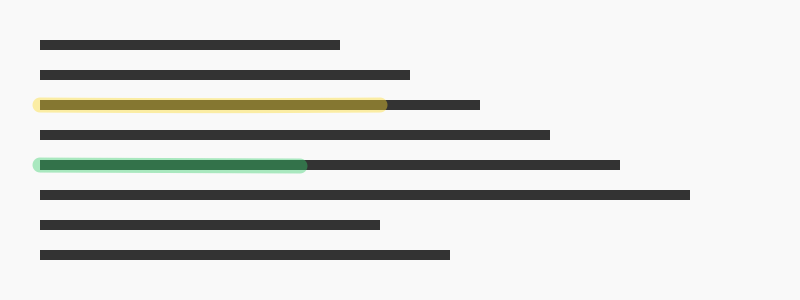
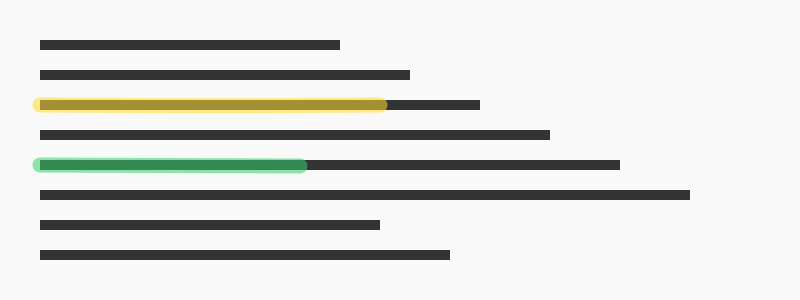
Smart select: tests, stills 11-14 + re-rendered 04/04b, SPEC Run 27

Changed region(s): [[0.0312, 0.3, 0.5, 0.39], [0.0312, 0.51, 0.375, 0.6]]

diff --git a/Tests/TrueTests/CaptureTests.swift b/Tests/TrueTests/CaptureTests.swift
@@ -289,3 +289,127 @@ private func px(_ b: [UInt8], _ w: Int, _ x: Int, _ y: Int) -> [UInt8] { Array(b
         #expect(p[1] > 200 && p[2] > 200 && p[3] < p[1] - 30)
     }
 }
+
+
+/// A canvas-like image: a flat dark page with a few drawn panels (no AX tree would describe these).
+func syntheticCanvasImage(_ w: Int = 800, _ h: Int = 500) -> (image: CGImage, boxes: [CGRect]) {
+    let ctx = CGContext(data: nil, width: w, height: h, bitsPerComponent: 8, bytesPerRow: 0, space: CGColorSpace(name: CGColorSpace.sRGB)!,
+                        bitmapInfo: CGImageAlphaInfo.premultipliedFirst.rawValue)!
+    ctx.translateBy(x: 0, y: CGFloat(h)); ctx.scaleBy(x: 1, y: -1)   // top-left coordinates
+    ctx.setFillColor(CGColor(gray: 0.1, alpha: 1)); ctx.fill(CGRect(x: 0, y: 0, width: w, height: h))
+    let boxes = [CGRect(x: 60, y: 60, width: 300, height: 180), CGRect(x: 420, y: 80, width: 280, height: 120), CGRect(x: 120, y: 290, width: 520, height: 150)]
+    for (i, b) in boxes.enumerated() {
+        ctx.setFillColor(CGColor(gray: 0.28 + CGFloat(i) * 0.08, alpha: 1)); ctx.fill(b)
+        ctx.setStrokeColor(CGColor(gray: 0.85, alpha: 1)); ctx.setLineWidth(3); ctx.stroke(b)
+    }
+    return (ctx.makeImage()!, boxes)
+}
+
+private func el(_ x: CGFloat, _ y: CGFloat, _ w: CGFloat, _ h: CGFloat, _ k: PickKind = .section) -> PickElement {
+    PickElement(frame: CGRect(x: x, y: y, width: w, height: h), kind: k)
+}
+
+@Suite struct SmartPickTests {
+    let win = CGRect(x: 0, y: 0, width: 800, height: 600)
+
+    @Test func cleanDropsTinyAndClampsAndEndsWithWindow() {
+        let out = SmartPickLogic.clean([el(10, 10, 1, 40), el(20, 20, 0, 0), el(700, 500, 400, 300, .image)], window: win)
+        #expect(out.count == 2)
+        #expect(out[0].frame == CGRect(x: 700, y: 500, width: 100, height: 100))
+        #expect(out[0].kind == .image)
+        #expect(out.last?.kind == .window && out.last?.frame == win)
+    }
+    @Test func cleanMergesNearDuplicatesKeepingSpecificName() {
+        let out = SmartPickLogic.clean([el(100, 100, 200, 100), el(101, 99, 199, 101, .button), el(50, 50, 400, 300)], window: win)
+        #expect(out.count == 3)
+        #expect(out[0].kind == .button)
+    }
+    @Test func cleanMergesOuterIntoWindow() {
+        let out = SmartPickLogic.clean([el(100, 100, 200, 100), el(1, 1, 798, 599)], window: win)
+        #expect(out.count == 2 && out[1].kind == .window)
+    }
+    @Test func coordinateFlipAcrossScreens() {
+        let r = CGRect(x: 2000, y: 100, width: 300, height: 200)
+        #expect(SmartPickLogic.toOverlay(r, displayOrigin: CGPoint(x: 1440, y: 0)) == CGRect(x: 560, y: 100, width: 300, height: 200))
+        // a screen left of / above the primary has a negative origin
+        #expect(SmartPickLogic.toOverlay(CGRect(x: -1500, y: -900, width: 100, height: 50), displayOrigin: CGPoint(x: -1920, y: -1080))
+                == CGRect(x: 420, y: 180, width: 100, height: 50))
+        let p = CGPoint(x: 420, y: 180), o = CGPoint(x: -1920, y: -1080)
+        #expect(SmartPickLogic.toOverlay(CGRect(origin: SmartPickLogic.toGlobal(p, displayOrigin: o), size: .zero), displayOrigin: o).origin == p)
+    }
+    @Test func axChainWinsOverImageBoxes() {
+        let ax = [el(100, 100, 50, 20, .button), el(0, 0, 800, 600, .window)]
+        let out = SmartPickLogic.chain(ax: ax, window: win, boxes: [CGRect(x: 90, y: 90, width: 200, height: 200)], at: CGPoint(x: 110, y: 110))
+        #expect(out == ax)
+    }
+    @Test func imageFallbackWhenAXOnlyHasWindow() {
+        let boxes = [CGRect(x: 50, y: 50, width: 300, height: 300), CGRect(x: 100, y: 100, width: 100, height: 100)]
+        let out = SmartPickLogic.chain(ax: [el(0, 0, 800, 600, .window)], window: win, boxes: boxes, at: CGPoint(x: 120, y: 120))
+        #expect(out.map(\.kind) == [.area, .area, .window])
+        #expect(out[0].frame == boxes[1])
+        let none = SmartPickLogic.chain(ax: [], window: win, boxes: [], at: CGPoint(x: 5, y: 5))
+        #expect(none.map(\.kind) == [.window])
+    }
+    @Test func pickerGrowShrinkClampAndWindowJump() {
+        var p = SmartPicker([el(10, 10, 20, 20, .button), el(0, 0, 100, 100), el(0, 0, 800, 600, .window)])
+        p.shrink(); #expect(p.level == 0)
+        p.grow(); p.grow(); p.grow(); #expect(p.level == 2 && p.current?.kind == .window)
+        p.shrink(); #expect(p.level == 1)
+        p.jumpToWindow(); #expect(p.level == 2)
+        p.replace([el(10, 10, 20, 20, .button), el(0, 0, 50, 50), el(0, 0, 800, 600, .window)])   // same innermost → keep level
+        #expect(p.level == 2)
+        p.replace([el(300, 300, 20, 20), el(0, 0, 800, 600, .window)])                               // new element → reset
+        #expect(p.level == 0)
+    }
+    @Test func clickVersusDrag() {
+        #expect(SmartPickLogic.isClick(down: CGPoint(x: 10, y: 10), up: CGPoint(x: 12, y: 11)))
+        #expect(!SmartPickLogic.isClick(down: CGPoint(x: 10, y: 10), up: CGPoint(x: 14, y: 10)))
+    }
+    @Test func namesArePlainEnglish() {
+        let roles = ["AXButton", "AXStaticText", "AXImage", "AXToolbar", "AXList", "AXTabGroup", "AXMenu", "AXWebArea", "AXWindow", "AXSplitGroup", "AXGroup", "AXWeird", nil]
+        for r in roles {
+            let n = PickKind.from(role: r).rawValue
+            #expect(!n.hasPrefix("AX") && !n.isEmpty)
+        }
+        #expect(PickKind.from(role: "AXSplitGroup", subrole: "AXSidebar") == .sidebar)
+        #expect(PickKind.from(role: "AXGroup") == .section)
+    }
+    @Test func filterBoxesDropsTinyWholeScreenAndDuplicates() {
+        let screen = CGSize(width: 800, height: 600)
+        let out = SmartPickLogic.filterBoxes([
+            CGRect(x: 0, y: 0, width: 800, height: 600), CGRect(x: 5, y: 5, width: 10, height: 10),
+            CGRect(x: 100, y: 100, width: 200, height: 100), CGRect(x: 101, y: 100, width: 199, height: 101),
+            CGRect(x: 400, y: 300, width: 100, height: 100),
+        ], screen: screen)
+        #expect(out.count == 2)
+    }
+    @Test func detectorFindsDrawnBoxes() {
+        let (img, boxes) = syntheticCanvasImage()
+        let found = ImageBoxDetector.detect(img)
+        // Vision is heuristic: require that most drawn panels are matched, loosely.
+        let hits = boxes.filter { b in found.contains { SmartPickLogic.iou($0, b) > 0.7 } }
+        #expect(hits.count >= 2, "matched \(hits.count)/3, found \(found)")
+    }
+}
+
+@Suite struct HighlighterAt55Tests {
+    private func run(_ base: CGColor, textGray: CGFloat?) -> (hl: [UInt8], text: [UInt8]) {
+        let ctx = CGContext(data: nil, width: 80, height: 40, bitsPerComponent: 8, bytesPerRow: 0, space: CGColorSpace(name: CGColorSpace.sRGB)!,
+                            bitmapInfo: CGImageAlphaInfo.premultipliedFirst.rawValue)!
+        ctx.setFillColor(base); ctx.fill(CGRect(x: 0, y: 0, width: 80, height: 40))
+        if let g = textGray { ctx.setFillColor(CGColor(gray: g, alpha: 1)); ctx.fill(CGRect(x: 30, y: 0, width: 20, height: 40)) }
+        var d = MarkupDoc()
+        d.add(Stroke(mark: .highlight([CGPoint(x: 5, y: 20), CGPoint(x: 75, y: 20)]), color: .amber, width: 4))
+        let out = pixels(MarkupRender.render(base: ctx.makeImage()!, doc: d)!)
+        return (px(out, 80, 10, 20), px(out, 80, 40, 20))
+    }
+    @Test func alphaIsAboutFiftyFivePercent() { #expect(abs(MarkupRender.highlightAlpha - 0.55) < 0.001) }
+    @Test func darkReadsYellowNotOlive() {
+        let p = run(CGColor(srgbRed: 0.08, green: 0.09, blue: 0.12, alpha: 1), textGray: nil).hl
+        #expect(p[1] > 110 && p[2] > 95 && Int(p[1]) > Int(p[3]) * 3)
+    }
+    @Test func textStaysVisibleThroughHighlightOnLight() {
+        let r = run(CGColor(srgbRed: 0.96, green: 0.96, blue: 0.97, alpha: 1), textGray: 0.1)
+        #expect(Int(r.text[2]) < Int(r.hl[2]) - 80)   // dark text still clearly darker than the highlight around it
+    }
+}

diff --git a/Tests/TrueTests/CaptureSnapshotTests.swift b/Tests/TrueTests/CaptureSnapshotTests.swift
@@ -190,4 +190,56 @@ struct CaptureSnapshotTests {
             CaptureNotice(symbol: "keyboard", text: "macOS still owns ⌘⇧4", button: "Open Keyboard Shortcuts", action: {}, dismiss: {}).padding(20)
         }
     }
+
+    // MARK: smart selection (11–14 are SYNTHETIC: fake chains over a fake desktop; no live AX / Vision on a real screen)
+
+    private let pickWin = CGRect(x: 40, y: 40, width: 660, height: 532)
+    private var pickChain: [PickElement] {
+        SmartPickLogic.clean([
+            PickElement(frame: CGRect(x: 70, y: 124, width: 200, height: 24), kind: .text),
+            PickElement(frame: CGRect(x: 56, y: 88, width: 330, height: 330), kind: .list),
+            PickElement(frame: CGRect(x: 40, y: 66, width: 660, height: 46), kind: .toolbar),
+        ], window: pickWin)
+    }
+
+    @Test func smartHoverElement() throws {
+        let v = CaptureView(frame: NSRect(x: 0, y: 0, width: 1200, height: 760), still: screenImage(1200, 760), windows: [])
+        v.previewPick(chain: pickChain, level: 0, cursor: CGPoint(x: 150, y: 136))
+        try write(v, size: NSSize(width: 1200, height: 760), "11-smart-hover-element")
+    }
+
+    @Test func smartGrownToParent() throws {
+        let v = CaptureView(frame: NSRect(x: 0, y: 0, width: 1200, height: 760), still: screenImage(1200, 760), windows: [])
+        v.previewPick(chain: pickChain, level: 1, cursor: CGPoint(x: 150, y: 136))
+        try write(v, size: NSSize(width: 1200, height: 760), "12-smart-grown-to-parent")
+    }
+
+    @Test func accessibilityNotice() throws {
+        try snapshot("13-accessibility-notice", width: 560, height: 90) {
+            CaptureNotice(symbol: "hand.raised", text: "Turn on Accessibility for exact picks", button: "Open Settings", action: {}, dismiss: {}).padding(20)
+        }
+    }
+
+    @Test func imageFallbackBoxes() throws {
+        let (img, _) = syntheticCanvasImage(1200, 760)
+        let boxes = SmartPickLogic.filterBoxes(ImageBoxDetector.detect(img), screen: CGSize(width: 1200, height: 760))
+        let v = CaptureView(frame: NSRect(x: 0, y: 0, width: 1200, height: 760), still: img, windows: [])
+        let cursor = CGPoint(x: 200, y: 150)
+        let chain = SmartPickLogic.chain(ax: [], window: CGRect(x: 0, y: 0, width: 1200, height: 760), boxes: boxes, at: cursor)
+        v.previewPick(chain: chain, level: 0, cursor: cursor)
+        let dashed = DashedBoxes(boxes: boxes); dashed.frame = v.bounds; v.addSubview(dashed)
+        try write(v, size: NSSize(width: 1200, height: 760), "14-image-fallback-boxes")
+    }
+}
+
+/// Still-only: thin dashed outlines of every detected candidate box.
+private final class DashedBoxes: NSView {
+    let boxes: [CGRect]
+    init(boxes: [CGRect]) { self.boxes = boxes; super.init(frame: .zero) }
+    required init?(coder: NSCoder) { fatalError() }
+    override var isFlipped: Bool { true }
+    override func draw(_ dirty: NSRect) {
+        NSColor.systemOrange.setStroke()
+        for b in boxes { let p = NSBezierPath(rect: b); p.lineWidth = 1.5; p.setLineDash([5, 4], count: 2, phase: 0); p.stroke() }
+    }
 }

diff --git a/SPEC.md b/SPEC.md
@@ -739,10 +739,11 @@ Voice must beat the mouse. "Nova, tell/ask/message <agent> [to] <rest>" sends th
 ## Run 27 — Capture + annotate (Phase 1)
 Yahia (2026-10-14) wants a macshot-class capture + annotation tool inside True's screenshot panel. Phase 1 = True's own capture and a real annotation editor. Later phases (not here): smart tools (PII auto-redact, OCR, QR, beautify, background removal), recording/GIF/scroll capture, history with editable layers. Clean-room: macshot is GPL-3.0; only its README/site were consulted for *what* it does — no macshot source was read or copied.
 
-**Capture.** Global hotkey **⌘⇧4** (Carbon, no Accessibility permission; defined once in `CaptureHotKey`) with **⌃⌥⌘A** always registered as a backup. macOS's own "Save picture of selected area" (symbolic hotkey 30) grabs ⌘⇧4 before any app, so True reads that setting **read-only** (never writes it) and, while it is still on, shows a one-line notice "macOS still owns ⌘⇧4" + "Open Keyboard Shortcuts" (opens System Settings ▸ Keyboard); the notice goes away once hotkey 30 is off. The menu item shows ⌘⇧4 and Shell ▸ "Capture Screen" open a borderless overlay panel on every screen, each showing a frozen `SCScreenshotManager` still of that screen (dimmed). Drag = region with live **W × H** and a magnifier loupe (8× pixels, crosshair on the pixel) beside the cursor. ←↑↓→ nudge 1 pt (⇧ = 10), also after the region is drawn; once drawn, **8 handles** (corners + edge midpoints, ≥ 8 pt hit targets) resize it with the live W × H (Shift on a corner keeps it square, clamped to the screen) — handles are live only until the first mark is drawn (marks lock the region); Shift-drag = square; Space (held) moves the selection instead of resizing; Esc cancels. Hover highlights a window (Tab toggles window snap, default on) and a click captures it; **F** captures the whole screen. Missing Screen Recording permission → one-line prompt "True needs Screen Recording to capture." + "Open Settings" button (never a crash, no overlay).
+**Capture.** Global hotkey **⌘⇧4** (Carbon, no Accessibility permission; defined once in `CaptureHotKey`) with **⌃⌥⌘A** always registered as a backup. macOS's own "Save picture of selected area" (symbolic hotkey 30) grabs ⌘⇧4 before any app, so True reads that setting **read-only** (never writes it) and, while it is still on, shows a one-line notice "macOS still owns ⌘⇧4" + "Open Keyboard Shortcuts" (opens System Settings ▸ Keyboard); the notice goes away once hotkey 30 is off. The menu item shows ⌘⇧4 and Shell ▸ "Capture Screen" open a borderless overlay panel on every screen, each showing a frozen `SCScreenshotManager` still of that screen (dimmed). Drag = region with live **W × H** and a magnifier loupe (8× pixels, crosshair on the pixel) beside the cursor. ←↑↓→ nudge 1 pt (⇧ = 10), also after the region is drawn; once drawn, **8 handles** (corners + edge midpoints, ≥ 8 pt hit targets) resize it with the live W × H (Shift on a corner keeps it square, clamped to the screen) — handles are live only until the first mark is drawn (marks lock the region); Shift-drag = square; Space (held) moves the selection instead of resizing; Esc cancels. **Tab** jumps the pick straight to window level (see Smart selection). Missing Screen Recording permission → one-line prompt "True needs Screen Recording to capture." + "Open Settings" button (never a crash, no overlay).
 **Editor (in place).** After the selection is released, the same overlay becomes the editor: the selected pixels stay bright at the exact place, a compact toolbar floats under (or over) them. Tools (single key): Arrow **A**, Line **L**, Rectangle **R** (outline/filled), Ellipse **E**, Pen **P** (smoothed), Highlighter **H**, Text **T** (click to place, click again to re-edit, size), Steps **N** (auto-numbered circles), Censor **X** (pixelate / blur / solid), Crop **C**, Select **V** (click to select; drag to move; handles to resize; ⌫ deletes). Colour popover: 6 house swatches + custom picker + stroke width. ⌘Z / ⇧⌘Z undo/redo (every layer change and crop). Finish: **Copy** ⌘C (clipboard, closes) · **Save** ⌘S / Return (adds a tray entry) · **Send** (Save + paste path into the focused pane + outbox line) · Esc cancels. A plain capture with no marks confirmed with Return or Copy also lands in the tray.
-**Finish + look.** **Copy** puts the PNG on the clipboard AND saves it to the tray (by design). Highlighter is a plain ~40% alpha blend of a bright colour (not multiply), identical on screen and in the exported PNG. Crop mode shows the same 8 handles (one shared `RectHandle`) and dims outside the crop at 50% black. The custom-colour control is a swatch-sized multicolour circle that opens the system colour panel and shows the picked colour. When the toolbar does not fit the panel's width, Cancel/Copy/Send/Save wrap to their own right-aligned row under the tools (Save stays the labelled primary button).
+**Finish + look.** **Copy** puts the PNG on the clipboard AND saves it to the tray (by design). Highlighter is a plain ~55% alpha blend of a bright colour (not multiply), identical on screen and in the exported PNG. Crop mode shows the same 8 handles (one shared `RectHandle`) and dims outside the crop at 50% black. The custom-colour control is a swatch-sized multicolour circle that opens the system colour panel and shows the picked colour. When the toolbar does not fit the panel's width, Cancel/Copy/Send/Save wrap to their own right-aligned row under the tools (Save stays the labelled primary button).
+**Smart selection.** Before any drag the overlay highlights the element under the cursor (outline, live W×H, a small plain-name chip: Button, Text, Image, Toolbar, Sidebar, List, Tabs, Menu, Section, Page, Window; image-fallback boxes say "Area" — never a raw AX role). **Click** (<4 pt movement) captures that element's frame as the selection with the usual 8 resize handles; **drag** (≥4 pt) is still a free area. **Scroll up** grows the pick to the parent, **scroll down** steps back toward the element; the window is the top of the chain (it replaces the old window snap), **Tab** jumps straight to window level, **F** is still full screen. *Accessibility (primary):* the overlay is True's own window, so no system-wide hit-test — the topmost on-screen window at the point is found via CGWindowList (True's overlay windows excluded, True's own UI stays capturable), then `AXUIElementCopyElementAtPosition` on that app and a `kAXParent` walk up to the window; frames are cleaned (drop ≤1 pt, merge within 2 pt, clamp to window, window last) and converted from global top-left space to each overlay by subtracting that display's origin (points, so scale and negative origins work). Queries run off the main thread, latest-wins, 0.1 s AX messaging timeout; an instant answer from window frames/image boxes shows first. Electron apps get `AXManualAccessibility` set once per app (never `AXEnhancedUserInterface`). Trust is checked with `AXIsProcessTrustedWithOptions` **without** the prompt option; if off, the image fallback runs and a notice "Turn on Accessibility for exact picks" + "Open Settings" (Privacy & Security ▸ Accessibility) shows once per run. *Image fallback:* when AX gives nothing finer than the window (or isn't trusted), Vision `VNDetectRectanglesRequest` plus a contour pass finds boxes in the frozen screenshot, once per screen right after the overlay opens, off the main thread; hover picks the smallest box containing the cursor and scroll grows through the containing boxes.
 **Data model** (`Model/Markup.swift`, Codable + Sendable, ready for Phase 4 to reopen): `MarkupDoc { strokes: [Stroke], crop: CGRect? }` with snapshot undo/redo. `Stroke { mark, color, custom?, width, filled, censor }`; `Mark` = pen · highlight · arrow · line · rect · ellipse · text · step(n) · censor(rect). All coordinates are IMAGE PIXELS, top-left origin. Step numbers are derived from layer order (delete one and the rest renumber). `MarkupRender` (CoreGraphics) paints image + layers at native pixel size (scale 1 = export; the live canvas uses the same code at view scale); censor reads the composite so far (it also hides earlier marks); crop is applied last.
 **Tray feed.** `TrayStore.addCapture(png:width:height:)` adds a `kind: original`, `source: null`, `parent: null` entry (names/fields unchanged; only added API). The panel's **Mark up** opens this same editor on the shot; Save still goes through `addMarkup` → `kind: markup`, `parent` = the shot. Copy/Send reuse the existing outbox path.
 **Out of scope:** everything under "Later phases", multi-display spanning selections (selection stays on one screen), saving layers beside the PNG, scrolling capture, timers.
-Code: `Model/Markup.swift`, `Model/MarkupRender.swift`, `Model/CaptureLogic.swift`, `Views/AnnotationEditor.swift`, `Views/CaptureOverlay.swift`. Tests: `MarkupTests`, `MarkupRenderTests`, `CaptureLogicTests`, `CaptureTrayTests`; stills: `CaptureSnapshotTests` → `proofs/capture-p1/`.
+Code: `Model/Markup.swift`, `Model/MarkupRender.swift`, `Model/CaptureLogic.swift`, `Views/AnnotationEditor.swift`, `Model/SmartPick.swift`, `Model/AXPick.swift`, `Views/CaptureOverlay.swift`. Tests: `SmartPickTests`, `HighlighterAt55Tests`, `MarkupTests`, `MarkupRenderTests`, `CaptureLogicTests`, `CaptureTrayTests`; stills: `CaptureSnapshotTests` → `proofs/capture-p1/`.
